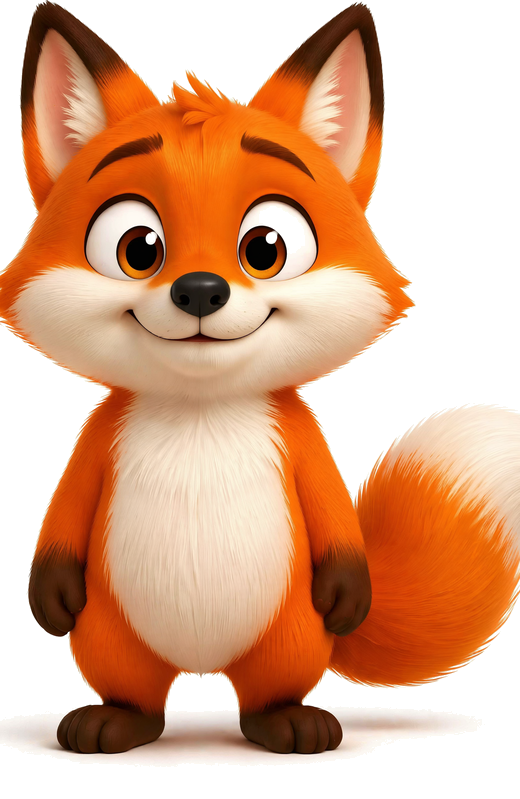
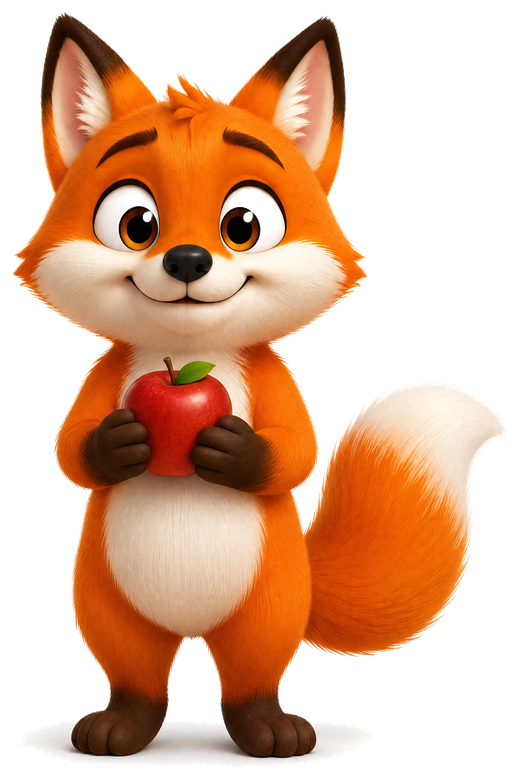
Hero nach dem Entwurf: Titel im Bild, Videokarten ragen hinein
- Logo, Tagline und die beiden Knoepfe liegen jetzt IM Hero-Bild statt darunter
  auf cremefarbenem Grund. Tagline weiss mit oranger Kontur, wie im Entwurf.
- Tagline zurueck auf "Kids Songs & Farm Stories", Navigation auf Videos /
  Characters / Parents / Songs.
- Die Folgen-Karten ragen von unten in den Hero hinein; der beschreibende Text
  sitzt jetzt bei der eingebetteten Folge.
- Figurenleiste entfernt (im Entwurf nicht vorhanden), Figuren bleiben in ihrer
  eigenen Sektion.

Pip und Foxy neu erzeugt: Beide Freisteller waren am Bildrand ANGESCHNITTEN —
Pip fehlten die Fuesse, Foxy die Ohrenspitzen und der Schwanz. Ich hatte die
Crops uebernommen, ohne sie anzusehen. Neuer Pruefschritt: Beruehrt die
Silhouette den Bildrand, taugt der Freisteller nicht. Jetzt stehen alle fuenf
Figuren frei.

Handy: Ausschnitt zeigt den unteren Bildbereich und die Knoepfe passen in eine
Zeile, damit der Text nicht ueber den Gesichtern liegt.

diff --git a/css/style.css b/css/style.css
@@ -73,12 +73,23 @@ nav { display: flex; align-items: center; justify-content: space-between; gap: 1
 .btn-sm { padding: 9px 16px; font-size: 14px; }
 
 /* ---------- Hero ---------- */
-/* padding:0 hebt das section-Standardpolster auf — sonst klafft auf dem Handy ein leerer
-   Streifen zwischen Kopfzeile und Hero-Bild. */
-.hero { position: relative; padding: 0; background: #bfe4f7; }
-.hero-img { width: 100%; display: block; }
-.hero-text { padding: 26px 20px 30px; text-align: center; background: var(--cream); }
-.hero h1 { margin-bottom: 6px; }
+/* Titel, Tagline und Buttons liegen IM Bild — wie im freigegebenen Entwurf.
+   padding:0 hebt das section-Standardpolster auf. */
+.hero {
+  position: relative; padding: 0; background: #bfe4f7; overflow: hidden;
+  min-height: 545px; display: grid; align-items: start;
+}
+/* Auf dem Handy zeigt der Ausschnitt den UNTEREN Bildbereich, damit die Figuren unter dem Text
+   stehen statt hinter ihm. Sonst deckt das Logo Tibinos Gesicht zu. */
+.hero-img {
+  position: absolute; inset: 0; width: 100%; height: 100%;
+  object-fit: cover; object-position: 62% 95%;
+}
+.hero-text { position: relative; z-index: 2; padding: 16px 16px 78px; text-align: center; }
+/* Kompakte Knöpfe, damit beide in EINE Zeile passen — untereinander schoben sie sich sonst
+   über Tibinos Gesicht. */
+.hero .cta-row .btn { padding: 11px 15px; font-size: 14.5px; }
+.hero h1 { margin-bottom: 2px; }
 
 /* ---------- Figurenleiste unter dem Hero ----------
    GRÖSSENVERHÄLTNISSE SIND ECHT (User-Befund): Vorher lagen alle Freisteller auf derselben
@@ -105,11 +116,13 @@ nav { display: flex; align-items: center; justify-content: space-between; gap: 1
 .s-milo   .stage img { height: 58%; }
 .s-pip    .stage img { height: 50%; }
 .hero h1 { font-size: clamp(52px, 17vw, 96px); margin-bottom: 2px; }
+/* Tagline weiss mit oranger Kontur — auf dem Bild lesbar, wie im Entwurf */
 .hero .tagline {
-  font-family: var(--display); font-weight: 600; color: var(--orange-dark);
-  font-size: clamp(17px, 4.6vw, 24px); margin-bottom: 6px;
+  font-family: var(--display); font-weight: 600; color: #fff;
+  font-size: clamp(17px, 4.6vw, 26px); margin-bottom: 14px;
+  -webkit-text-stroke: 4px var(--orange-dark); paint-order: stroke fill;
+  text-shadow: 0 2px 6px rgba(120, 60, 10, .35);
 }
-.hero .lede { color: var(--ink-soft); font-weight: 600; max-width: 46ch; margin: 0 auto 18px; }
 .cta-row { display: flex; gap: 12px; justify-content: center; flex-wrap: wrap; }
 
 /* ---------- Abschnitte ---------- */
@@ -124,8 +137,10 @@ h2 {
 }
 .sub { text-align: center; color: var(--ink-soft); max-width: 60ch; margin: 0 auto 30px; font-weight: 600; }
 
-/* ---------- Folgen ---------- */
-.episodes { display: grid; gap: 20px; }
+/* ---------- Folgen ----------
+   Die Karten ragen von unten in den Hero hinein (negatives margin + z-index). */
+.episodes-sec { padding-top: 0; }
+.episodes { display: grid; gap: 20px; margin-top: -62px; position: relative; z-index: 3; }
 .ep-card {
   background: #fff; border-radius: var(--r); overflow: hidden;
   box-shadow: 0 8px 26px rgba(70, 176, 230, .16); border: 3px solid #fff;
@@ -223,33 +238,18 @@ footer .legal { margin-top: 10px; font-size: 12.5px; color: #9a97a5; }
 
 /* ---------- ab Desktop: Text neben dem Bild (Entwurf V2) ---------- */
 @media (min-width: 1000px) {
-  .hero { min-height: 560px; display: flex; align-items: stretch; }
-  .hero-img {
-    position: absolute; inset: 0; width: 100%; height: 100%;
-    object-fit: cover; object-position: 78% 62%;
-  }
-  /* Leseschutz: Ohne diesen Verlauf laeuft der Fliesstext in den Fuchs und wird unleserlich.
-     Er deckt nur die linke Haelfte weich ab, die Figuren rechts bleiben unberuehrt. */
-  .hero::after {
-    content: ""; position: absolute; inset: 0; z-index: 1; pointer-events: none;
-    background: linear-gradient(95deg,
-      rgba(255, 247, 232, .96) 0%,
-      rgba(255, 247, 232, .90) 26%,
-      rgba(255, 247, 232, .55) 44%,
-      rgba(255, 247, 232, 0) 60%);
-  }
+  .hero { min-height: 580px; align-items: center; }
+  .hero-img { object-position: 76% 58%; }
   .hero-text {
-    position: relative; z-index: 2; text-align: left; align-self: center;
-    max-width: var(--wrap); margin: 0 auto; width: 100%; padding: 40px 20px;
-    background: transparent;
+    text-align: left; max-width: var(--wrap); margin: 0 auto; width: 100%;
+    padding: 30px 20px 92px;
   }
-  .hero-text > * { max-width: 46%; }
-  .hero .lede { margin-left: 0; }
+  .hero-text > * { max-width: 48%; }
   .cta-row { justify-content: flex-start; }
-  .hero-logo { margin: 0 0 4px; width: min(420px, 40vw); }
-  .cast-strip { gap: 10px; margin-top: -30px; max-width: 760px; margin-left: auto; margin-right: auto; }
-  .cast-strip .stage { height: 150px; }
-  .cast-strip b { font-size: 15px; }
+  .hero-logo { margin: 0 0 4px; width: min(430px, 40vw); }
+  .hero .tagline { padding-left: 6px; }
+  .hero .cta-row .btn { padding: 13px 24px; font-size: 16px; }
+  .episodes { margin-top: -78px; }
   .char summary .stage { height: 200px; }
   .char-grid { grid-template-columns: repeat(5, 1fr); }
 }

diff --git a/index.html b/index.html
@@ -121,9 +121,10 @@
   <nav class="wrap" aria-label="Main">
     <a class="logo" href="/"><img src="img/logo-small.png" width="320" height="100" alt="Tibino Kids"></a>
     <div class="navlinks">
-      <a href="#episodes">Episodes</a>
+      <a href="#episodes">Videos</a>
       <a href="#characters">Characters</a>
-      <a href="#parents">For Parents</a>
+      <a href="#parents">Parents</a>
+      <a href="https://www.youtube.com/@TibinoKids" target="_blank" rel="noopener">Songs</a>
     </div>
     <a class="btn btn-yt btn-sm" href="https://www.youtube.com/@TibinoKids?sub_confirmation=1"
        target="_blank" rel="noopener">Subscribe</a>
@@ -138,45 +139,18 @@
          alt="Tibino the little farm boy waving, with Foxy the fox, Pip the chick, Storm the puppy and Milo the kitten on a sunny farm">
     <div class="hero-text">
       <h1><img class="hero-logo" src="img/logo.png" width="1000" height="311" alt="Tibino"></h1>
-      <p class="tagline">Kind Farm Stories for Little Ones</p>
-      <p class="lede">Gentle 3D cartoons for toddlers and preschoolers — calm stories,
-        friendly animals and happy endings. Nothing scary, ever.</p>
+      <p class="tagline">Kids Songs &amp; Farm Stories</p>
       <div class="cta-row">
         <a class="btn btn-yt" href="https://www.youtube.com/@TibinoKids?sub_confirmation=1"
            target="_blank" rel="noopener">▶ Watch on YouTube</a>
-        <a class="btn btn-2" href="#characters">Meet the Friends</a>
+        <a class="btn btn-2" href="#episodes">Newest Songs</a>
       </div>
     </div>
   </section>
 
-  <!-- Figurenleiste, die in den Hero hineinragt — wie im Entwurf. Die Groessen sind ECHT
-       gestaffelt: Tibino am groessten, Pip als Kueken am kleinsten. -->
-  <div class="wrap">
-    <ul class="cast-strip" aria-label="The friends">
-      <li class="s-tibino"><a href="#characters">
-        <span class="stage"><img src="img/char-tibino.png" width="520" height="650" loading="lazy" alt="Tibino"></span>
-        <b>Tibino</b></a></li>
-      <li class="s-foxy"><a href="#characters">
-        <span class="stage"><img src="img/char-foxy.png" width="520" height="650" loading="lazy" alt="Foxy"></span>
-        <b>Foxy</b></a></li>
-      <li class="s-storm"><a href="#characters">
-        <span class="stage"><img src="img/char-storm.png" width="520" height="520" loading="lazy" alt="Storm"></span>
-        <b>Storm</b></a></li>
-      <li class="s-milo"><a href="#characters">
-        <span class="stage"><img src="img/char-milo.png" width="520" height="520" loading="lazy" alt="Milo"></span>
-        <b>Milo</b></a></li>
-      <li class="s-pip"><a href="#characters">
-        <span class="stage"><img src="img/char-pip.png" width="520" height="650" loading="lazy" alt="Pip"></span>
-        <b>Pip</b></a></li>
-    </ul>
-  </div>
-
-  <!-- ══════════ FOLGEN ══════════ -->
-  <section id="episodes" class="wrap">
-    <p class="eyebrow">New stories regularly</p>
-    <h2>Episodes</h2>
-    <p class="sub">Every story is short, calm and made to be watched again and again.</p>
-
+  <!-- ══════════ FOLGEN ══════════
+       Die Karten ragen von unten in den Hero hinein — so war es im freigegebenen Entwurf. -->
+  <section id="episodes" class="wrap episodes-sec">
     <div class="episodes">
       <article class="ep-card">
         <a href="https://www.youtube.com/@TibinoKids" target="_blank" rel="noopener">
@@ -204,6 +178,11 @@
         </a>
       </article>
     </div>
+
+    <p class="eyebrow" style="margin-top:38px;">New stories regularly</p>
+    <h2>Watch an episode</h2>
+    <p class="sub">Gentle 3D cartoons for toddlers and preschoolers — calm stories, friendly
+      animals and happy endings. Nothing scary, ever.</p>
 
     <!-- Eingebettete Folge · ohne Cookies (youtube-nocookie).
          PLATZHALTER: VIDEO_ID durch die echte YouTube-ID ersetzen, sobald die Folge online ist. -->
